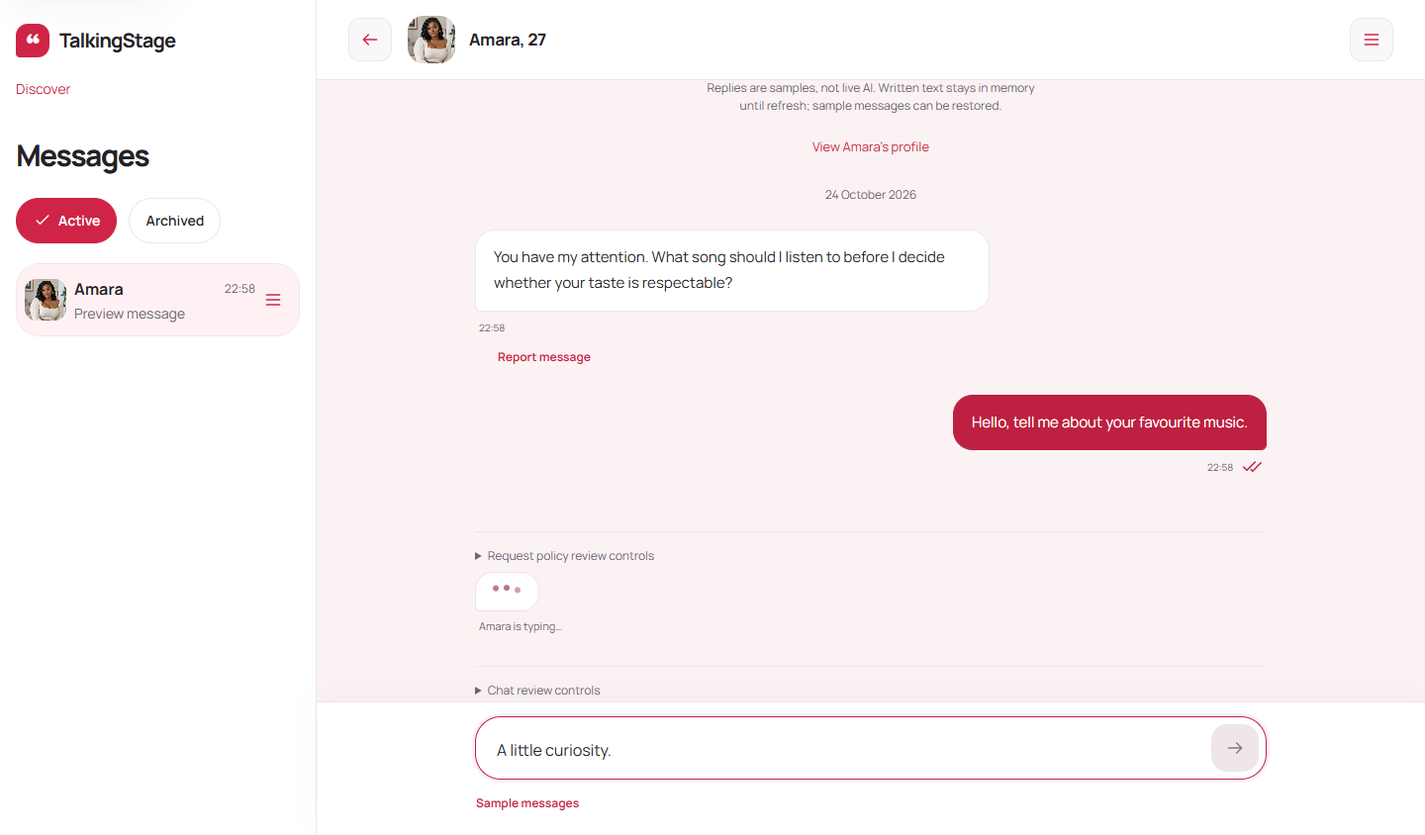
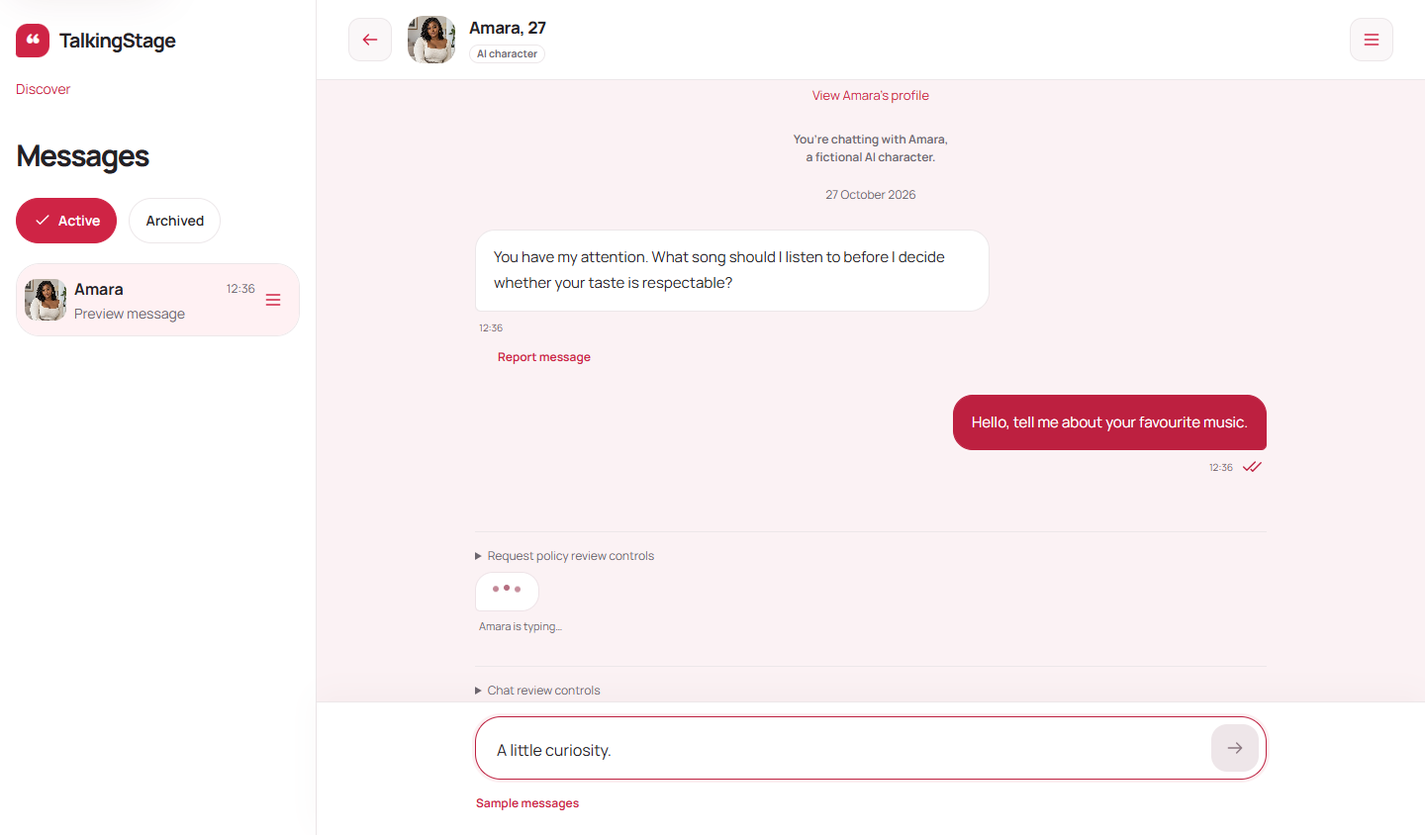
feat: implement AI disclosure features including session notices and character badges
- Added AI character badge under the name in chat and profile viewers.
- Introduced session start notice and reminder for AI character interactions.
- Updated CSS for AI disclosure elements.
- Created new component for AI session notice with visibility tracking.
- Enhanced tests for AI disclosure features, ensuring proper visibility and accessibility.
- Updated documentation to reflect changes in AI disclosure design and functionality.

Changed region(s): [[0.5, 0.0924, 0.7188, 0.2464], [0.3125, 0.0308, 0.4062, 0.0924], [0.1562, 0.3389, 0.1875, 0.3697]]

diff --git a/components/chat.tsx b/components/chat.tsx
@@ -20,6 +20,7 @@ import { ConversationLifecycle } from './conversation-lifecycle';
 import { ReportDialog, type ReportContext } from './reporting';
 import { useOperatorPreview } from './operator-preview';
 import { Overlay } from './ui/overlay';
+import { AiSessionNotice } from './ai-session-notice';
 import { Icon } from './ui/icon';
 
 function dateLabel(date: string) { return new Intl.DateTimeFormat('en-NG', { day: 'numeric', month: 'long', year: 'numeric', timeZone: 'Africa/Lagos' }).format(new Date(date)); }
@@ -70,9 +71,9 @@ function ChatContent({ id }: { id: string }) {
   const blockedCopy = archived ? 'This conversation is archived. Restore it to continue.' : (scenario === 'chat_paused' || !operator.chat) ? 'Conversation is paused. You can still read your history.' : (scenario === 'photos_paused' || !operator.photos) ? 'Character photos are paused. Text conversation is still available.' : null;
   const back = <Link onClick={() => { reading.current = false; }} href={character ? `/characters/${character.id}` : '/discover'} className="button button--quiet button--icon" aria-label={character ? `Back to ${character.name}’s profile` : 'Back to discovery'}><Icon name="back" /></Link>;
   if (loaded && (!conversation || !character || loadError)) return <main id="main-content" className="container shell__main"><EmptyState title="Conversation not found" action={<Link href="/discover" className="button button--primary">Explore characters</Link>}>{loadError || 'Start a conversation from a character’s profile.'}</EmptyState>{conversation && <Button onClick={() => { setLoaded(false); setLoadAttempt(v => v + 1); }}>Try again</Button>}</main>;
-  return <div className="chat-workspace"><aside className="chat-sidebar"><div className="chat-sidebar__brand"><Brand /><Link href="/discover">Discover</Link></div><MessageList compact selected={id} /></aside><ChatShell onMessagesScroll={event => { const main = event.currentTarget; nearBottom.current = main.scrollHeight - main.scrollTop - main.clientHeight < 100; }} back={back} identity={character ? <div className="chat-identity"><span className="chat-avatar"><CharacterPhoto character={character} retryable={false} /></span><div><h1 aria-label={`Your conversation with ${character.name}`}>{character.name}, {character.age}</h1></div></div> : <Skeleton width="60%" />} actions={<IconButton icon="menu" label="Conversation options" onClick={() => setMenu(true)} />} composer={loaded && thread ? <div className="chat-composer stack">{blockedCopy && <Notice title={archived ? 'Conversation archived' : (scenario === 'chat_paused' || !operator.chat) ? 'Conversation paused' : 'Photos paused'}>{blockedCopy}{archived && <Button variant="secondary" onClick={() => manage('archive')}>Restore conversation</Button>}</Notice>}{error && <p className="field__error" role="alert">{error}</p>}<form onSubmit={e => { e.preventDefault(); void send(); }}><div className="composer-field"><label htmlFor="chat-message" className="sr-only">Message {character?.name}</label><textarea ref={composer} id="chat-message" value={draft} disabled={chatDisabled} maxLength={2000} rows={1} placeholder={`Say something to ${character?.name ?? 'your character'}…`} onChange={e => setDraft(e.target.value)} onKeyDown={e => { if (e.key === 'Enter' && !e.shiftKey && !e.nativeEvent.isComposing && e.nativeEvent.keyCode !== 229) { e.preventDefault(); if (!e.repeat) void send(); } }} /></div><Button type="submit" className="composer-send" loading={busy} disabled={!draft.trim() || chatDisabled || pending} aria-label="Send message"><Icon name="arrow" /></Button></form><div className="composer-help"><Button variant="quiet" onClick={() => setShowSamples(v => !v)}>Sample messages</Button></div>{showSamples && <div className="sample-message-list">{sampleMessages.map(text => <button type="button" key={text} onClick={() => { setDraft(text); composer.current?.focus(); }}>{text}</button>)}</div>}</div> : <Skeleton height={48} />}>
+  return <div className="chat-workspace"><aside className="chat-sidebar"><div className="chat-sidebar__brand"><Brand /><Link href="/discover">Discover</Link></div><MessageList compact selected={id} /></aside><ChatShell onMessagesScroll={event => { const main = event.currentTarget; nearBottom.current = main.scrollHeight - main.scrollTop - main.clientHeight < 100; }} back={back} identity={character ? <div className="chat-identity"><span className="chat-avatar"><CharacterPhoto character={character} retryable={false} /></span><div><h1 aria-label={`Your conversation with ${character.name}`}>{character.name}, {character.age}</h1><Badge tone="neutral">AI character</Badge></div></div> : <Skeleton width="60%" />} actions={<IconButton icon="menu" label="Conversation options" onClick={() => setMenu(true)} />} composer={loaded && thread ? <div className="chat-composer stack">{blockedCopy && <Notice title={archived ? 'Conversation archived' : (scenario === 'chat_paused' || !operator.chat) ? 'Conversation paused' : 'Photos paused'}>{blockedCopy}{archived && <Button variant="secondary" onClick={() => manage('archive')}>Restore conversation</Button>}</Notice>}{error && <p className="field__error" role="alert">{error}</p>}<form onSubmit={e => { e.preventDefault(); void send(); }}><div className="composer-field"><label htmlFor="chat-message" className="sr-only">Message {character?.name}</label><textarea ref={composer} id="chat-message" value={draft} disabled={chatDisabled} maxLength={2000} rows={1} placeholder={`Say something to ${character?.name ?? 'your character'}…`} onChange={e => setDraft(e.target.value)} onKeyDown={e => { if (e.key === 'Enter' && !e.shiftKey && !e.nativeEvent.isComposing && e.nativeEvent.keyCode !== 229) { e.preventDefault(); if (!e.repeat) void send(); } }} /></div><Button type="submit" className="composer-send" loading={busy} disabled={!draft.trim() || chatDisabled || pending} aria-label="Send message"><Icon name="arrow" /></Button></form><div className="composer-help"><Button variant="quiet" onClick={() => setShowSamples(v => !v)}>Sample messages</Button></div>{showSamples && <div className="sample-message-list">{sampleMessages.map(text => <button type="button" key={text} onClick={() => { setDraft(text); composer.current?.focus(); }}>{text}</button>)}</div>}</div> : <Skeleton height={48} />}>
     {!loaded || !thread ? <div role="status" aria-label="Loading conversation" className="stack"><Skeleton width="70%" height={100} /><Skeleton width="55%" height={60} /></div> : <div className="chat-thread"><div className="chat-disclosure"><Badge>Scripted conversation preview</Badge><p>Replies are samples, not live AI. Written text stays in memory until refresh; sample messages can be restored.</p></div>{character && <div className="chat-profile-link"><Link href={`/characters/${character.id}`}>View {character.name}’s profile</Link></div>}
-      <div className="chat-log" role="log" aria-live="polite" aria-relevant="additions" aria-label="Conversation messages">{thread.messages.map((m, index) => { const day = dateLabel(m.createdAt); const previous = thread.messages[index - 1]; const job = thread.jobs.find(j => j.userMessageId === m.id); return <Fragment key={m.id}>{(!previous || dateLabel(previous.createdAt) !== day) && <p className="chat-date">{day}</p>}<article className={`message-turn message-turn--${m.role}`} data-message-id={m.id} aria-label={`${m.role === 'user' ? 'You' : character?.name}, ${formatTime(m.createdAt)}`}><span className="sr-only">{m.role === 'user' ? 'You' : character?.name}: </span>{m.kind === 'photo' ? <ChatPhoto message={m} conversationId={id} onView={setViewer} broken={brokenPhoto} /> : <p className="message-bubble">{m.text}</p>}<div className="message-meta caption muted"><time dateTime={m.createdAt}>{formatTime(m.createdAt)}</time>{m.role === 'user' && <><MessageDelivery state={m.deliveryState === 'sending' ? 'sending' : m.deliveryState === 'failed' ? 'failed' : job && ['waiting', 'generating', 'completed', 'failed', 'interrupted'].includes(job.state) ? 'seen' : 'saved'}/><span className="sr-only">{m.deliveryState === 'saved' ? 'Saved in preview' : ''}</span></>}</div>{m.role === 'character' && <Button variant="quiet" className="message-report" onClick={() => setReport({ target: m.kind === 'photo' ? { kind: 'photo', id: m.assetId! } : { kind: 'message', id: m.id }, label: m.kind === 'photo' ? 'character photo' : 'message', preview: m.text ?? 'AI-generated character photo' })}>Report {m.kind === 'photo' ? 'photo' : 'message'}</Button>}{m.deliveryState === 'failed' && <Button variant="secondary" disabled={busy} onClick={() => retryDelivery(m)}>Retry delivery</Button>}{job && (job.state === 'failed' || job.state === 'interrupted') && <div className="reply-failure"><p className="supporting">{job.state === 'interrupted' ? 'Reply interrupted.' : 'Reply couldn’t be prepared.'} Your message is saved.</p><Button variant="secondary" disabled={busy} onClick={() => retryReply(m.id)}>Retry reply</Button></div>}</article></Fragment>; })}</div>
+      {character && <AiSessionNotice conversationId={id} name={character.name} placement="start"/>}<div className="chat-log" role="log" aria-live="polite" aria-relevant="additions" aria-label="Conversation messages">{thread.messages.map((m, index) => { const day = dateLabel(m.createdAt); const previous = thread.messages[index - 1]; const job = thread.jobs.find(j => j.userMessageId === m.id); return <Fragment key={m.id}>{(!previous || dateLabel(previous.createdAt) !== day) && <p className="chat-date">{day}</p>}<article className={`message-turn message-turn--${m.role}`} data-message-id={m.id} aria-label={`${m.role === 'user' ? 'You' : character?.name}, ${formatTime(m.createdAt)}`}><span className="sr-only">{m.role === 'user' ? 'You' : character?.name}: </span>{m.kind === 'photo' ? <ChatPhoto message={m} conversationId={id} onView={setViewer} broken={brokenPhoto} /> : <p className="message-bubble">{m.text}</p>}<div className="message-meta caption muted"><time dateTime={m.createdAt}>{formatTime(m.createdAt)}</time>{m.role === 'user' && <><MessageDelivery state={m.deliveryState === 'sending' ? 'sending' : m.deliveryState === 'failed' ? 'failed' : job && ['waiting', 'generating', 'completed', 'failed', 'interrupted'].includes(job.state) ? 'seen' : 'saved'}/><span className="sr-only">{m.deliveryState === 'saved' ? 'Saved in preview' : ''}</span></>}</div>{m.role === 'character' && <Button variant="quiet" className="message-report" onClick={() => setReport({ target: m.kind === 'photo' ? { kind: 'photo', id: m.assetId! } : { kind: 'message', id: m.id }, label: m.kind === 'photo' ? 'character photo' : 'message', preview: m.text ?? 'AI-generated character photo' })}>Report {m.kind === 'photo' ? 'photo' : 'message'}</Button>}{m.deliveryState === 'failed' && <Button variant="secondary" disabled={busy} onClick={() => retryDelivery(m)}>Retry delivery</Button>}{job && (job.state === 'failed' || job.state === 'interrupted') && <div className="reply-failure"><p className="supporting">{job.state === 'interrupted' ? 'Reply interrupted.' : 'Reply couldn’t be prepared.'} Your message is saved.</p><Button variant="secondary" disabled={busy} onClick={() => retryReply(m.id)}>Retry reply</Button></div>}</article></Fragment>; })}</div>{character && <AiSessionNotice conversationId={id} name={character.name} placement="reminder"/>}
       <ChatPersonalSpace conversationId={id} />{!operator.payments && <Notice title="Payments paused">Giving is temporarily unavailable. You can still read payment history and continue any available conversation.</Notice>}
       {pending && <TypingBubble name={character?.name ?? 'Your character'}/>}
       {process.env.NODE_ENV === 'development' && <details className="chat-review-controls"><summary>Chat review controls</summary><SelectField label="Chat scenario" value={scenario} onChange={e => { setScenario(e.target.value as ChatScenario); setError(''); }}>{['ready', 'offline', 'delivery_failed', 'reply_failed', 'interrupted', 'rate_limit', 'usage_limit', 'chat_paused', 'photos_paused'].map(s => <option key={s}>{s}</option>)}</SelectField><Button variant="quiet" onClick={() => setBrokenPhoto(v => !v)}>Toggle broken photo</Button></details>}<div ref={end} /></div>}
@@ -82,6 +83,6 @@ function ChatContent({ id }: { id: string }) {
   {reset && <ConversationLifecycle id={id} action="reset" onClose={() => setReset(false)} onComplete={() => { setReset(false); setDraft(''); setError(''); }} />}
   {gift && <GiftDialog conversationId={id} onClose={() => setGift(false)} />}
   {report && <ReportDialog context={report} onClose={() => setReport(null)} />}
-  <Overlay open={!!viewer} onClose={() => setViewer(null)} title={viewer ? `${viewer.name}’s character photo` : 'Character photo'}>{viewer && <><CharacterPhoto character={viewer} kind="gallery" eager /><Button variant="quiet" onClick={() => { setViewer(null); setReport({ target: { kind: 'photo', id: `${viewer.id}-gallery` }, label: 'character photo', preview: `${viewer.name}’s AI-generated character photo` }); }}>Report this photo</Button></>}</Overlay>
+  <Overlay open={!!viewer} onClose={() => setViewer(null)} title={viewer ? `${viewer.name}’s character photo` : 'Character photo'} description="AI-generated photo of a fictional adult character.">{viewer && <><CharacterPhoto character={viewer} kind="gallery" eager /><Button variant="quiet" onClick={() => { setViewer(null); setReport({ target: { kind: 'photo', id: `${viewer.id}-gallery` }, label: 'character photo', preview: `${viewer.name}’s AI-generated character photo` }); }}>Report this photo</Button></>}</Overlay>
   </div>;
 }

diff --git a/components/connected-conversations.tsx b/components/connected-conversations.tsx
@@ -15,7 +15,7 @@ import { ConversationTools } from './conversation-tools';
 import Link from 'next/link';
 import {ReportControl} from './connected-reporting';
 import {currentAccount,renderAccount} from '@/lib/backend/server';
-import {EmptyState,Notice} from './ui/primitives';
+import {Badge,EmptyState,Notice} from './ui/primitives';
 import {Pagination} from './ui/pagination';
 import {ChatShell} from './chat-shell';
 import {ConversationControl,ReplyRetry} from './connected-conversation-forms';
@@ -28,6 +28,7 @@ import {ClearAllChats} from './clear-all-chats';
 import {GiftReceipt} from './connected-payments';
 import {bachsSettings} from '@/lib/payments/bachs.mjs';
 import {GiftProposalControl} from './connected-gift-form';
+import {AiSessionNotice} from './ai-session-notice';
 import type {GiftIntent} from '@/lib/backend/payment-service';
 type Conversation={id:string;character_id:string;name:string;status:string;version:number;generation:number;last_message_preview?:string;updated_at?:string};
 export async function ConnectedConversations({archived=false,page=1}:{archived?:boolean;page?:number}) {
@@ -73,10 +74,10 @@ export async function ConnectedThread({id,before,memorySaved=false}:{id:string;b
  const giftIntents=(giftRows.data??[]) as GiftIntent[];
  const tools=<ConversationTools><div className="connected-chat-shortcuts"><Link href={`/characters/${c.character_id}`}>View {c.name}’s profile</Link><Link href={`/settings/memories/${c.character_id}?conversation=${id}`}>Manage memories with {c.name}</Link></div> <div className="stack"><Link href={`/gifts/${id}`}>Send money</Link><Link href="/settings/requests">Manage monetary requests</Link><ConversationControl id={id} version={c.version} operation={c.status==='archived'?'restore':'archive'} label={c.status==='archived'?'Restore conversation':'Archive conversation'}/><ConversationControl id={id} version={c.version} operation="reset" label="Reset conversation"/><ConversationControl id={id} version={c.version} operation="delete" label="Delete conversation"/></div></ConversationTools>;
  const emptyConversation=<section className={`connected-chat-welcome connected-chat-welcome--minimal ${styles.introduction}`} aria-label={`Start your conversation with ${c.name}`}><h2>Start a conversation with <span>{c.name}</span></h2><p>Say hello and see where it goes.</p></section>;
- return <ConnectedChatDelivery key={`${id}:${c.generation}`} id={id} generation={c.generation} replies={available&&!blocked&&!before} savedIds={messages.map(m=>m.id)} savedClientIds={(delivery.data??[]).map(m=>m.client_message_id).filter(Boolean)} statuses={statuses??[]}><div className={`chat-workspace connected-chat ${styles.atmosphere}`}>{!before&&<CheckinSync conversation={id}/>} {!before&&<ConversationSync id={id} revision={conversationRevision({conversation:c,messages,capabilities,reactions},statuses??[])}/>}<ChatShell followMessages actions={tools} back={<Link href={`/characters/${c.character_id}`} className="button button--quiet" aria-label={`Back to ${c.name}’s profile`}>Back</Link>} identity={<div className="chat-identity"><Link href={`/characters/${c.character_id}`} aria-label={`View ${c.name}’s profile photo`}><ConnectedChatPortrait key={portrait.data?.id??'unavailable'} assetId={portrait.data?.id} name={c.name}/></Link><div><h1>{c.name}</h1></div></div>} composer={<div className="chat-composer stack">{memorySaved&&<MemorySavedConfirmation/>}{blocked&&<p className="supporting muted">{c.status==='archived'?'Restore this conversation to save new messages.':'Chat is paused. Saved history remains available.'}</p>}<LiveMessageComposer disabled={blocked||!!before} name={c.name}/></div>}>
+ return <ConnectedChatDelivery key={`${id}:${c.generation}`} id={id} generation={c.generation} replies={available&&!blocked&&!before} savedIds={messages.map(m=>m.id)} savedClientIds={(delivery.data??[]).map(m=>m.client_message_id).filter(Boolean)} statuses={statuses??[]}><div className={`chat-workspace connected-chat ${styles.atmosphere}`}>{!before&&<CheckinSync conversation={id}/>} {!before&&<ConversationSync id={id} revision={conversationRevision({conversation:c,messages,capabilities,reactions},statuses??[])}/>}<ChatShell followMessages actions={tools} back={<Link href={`/characters/${c.character_id}`} className="button button--quiet" aria-label={`Back to ${c.name}’s profile`}>Back</Link>} identity={<div className="chat-identity"><Link href={`/characters/${c.character_id}`} aria-label={`View ${c.name}’s profile photo`}><ConnectedChatPortrait key={portrait.data?.id??'unavailable'} assetId={portrait.data?.id} name={c.name}/></Link><div><h1>{c.name}</h1><Badge tone="neutral">AI character</Badge></div></div>} composer={<div className="chat-composer stack">{memorySaved&&<MemorySavedConfirmation/>}{blocked&&<p className="supporting muted">{c.status==='archived'?'Restore this conversation to save new messages.':'Chat is paused. Saved history remains available.'}</p>}<LiveMessageComposer disabled={blocked||!!before} name={c.name}/></div>}>
  <div className="chat-thread stack">{!available&&<Notice title="Replies are not available yet">Your messages are saved. No AI response is being generated.</Notice>}
 
  {older&&<Link href={`/messages/${id}?before=${older}`}>Older messages</Link>}{before&&<Link href={`/messages/${id}`}>Latest messages</Link>}
- <div className="chat-log" role="log" aria-label="Conversation messages" aria-relevant="additions" aria-atomic="false">{messages.length?messages.map((m,index)=>{const date=<MessageDate timestamp={m.created_at} previous={messages[index-1]?.created_at} now={dateNow}/>;const status=statuses?.find(s=>s.messageId===m.id);const proposal=proposalRows.data?.find(p=>p.message_id===m.id);const gift=giftIntents.find(g=>g.id===paymentMessages.data?.find(p=>p.id===m.id)?.payment_intent_id);if(m.kind==='payment')return <Fragment key={m.id}>{date}<article className="message-turn message-turn--system" aria-label="TalkingStage payment update"><p className="message-system-label caption">Payment update &middot; TalkingStage</p>{gift?<GiftReceipt intent={gift} name={c.name}/>:<Notice title="Payment details unavailable">Open <Link href="/settings/payments">payment history</Link> to check this payment.</Notice>}<div className="message-meta caption muted"><time dateTime={m.created_at}>{new Date(m.created_at).toLocaleTimeString('en-NG',{timeZone:'Africa/Lagos',hour:'2-digit',minute:'2-digit',hour12:true}).toUpperCase()}</time></div></article></Fragment>;return <Fragment key={m.id}>{date}<ReplyableMessage message={{...m,role:m.role==='user'?'user':'character'}} quote={m.replyTo} name={c.name} conversation={id} disabled={blocked} returnToLatest={!!before} content={m.kind==='photo'&&m.asset_id?<ConnectedChatPhoto assetId={m.asset_id} name={c.name} description={photoDescriptions.find(a=>a.id===m.asset_id)?.alt_text}/>:<ChatMessageContent text={m.text} giftHref={m.role==='character'&&giftsEnabled?`/gifts/${id}`:undefined}/>}><div className="message-meta caption muted"><time dateTime={m.created_at}>{new Date(m.created_at).toLocaleTimeString('en-NG',{timeZone:'Africa/Lagos',hour:'2-digit',minute:'2-digit',hour12:true}).toUpperCase()}</time>{m.role==='user'&&<ConnectedMessageDelivery messageId={m.id} status={status}/>}{m.role === 'character' && <ReportControl compact target={{kind:"message",id:m.id}} label={`${c.name} conversation message ${m.sequence}`} preview={m.kind==="photo"?`Photo shared in your conversation with ${c.name}`:m.text} />}</div>{['user','character'].includes(m.role)&&['text','photo'].includes(m.kind)&&<MessageReactions messageRole={m.role==='user'?'user':'character'} messageId={m.id} name={c.name} reactions={reactions.filter(r=>r.messageId===m.id)} disabled={blocked} action={setMessageReaction.bind(null,id)}/>}{proposal&&<GiftProposalControl id={proposal.id} conversation={id} amount={Number(proposal.amount_minor)} declined={proposal.state==='declined'}/>} {available&&!blocked&&status&&<ReplyRetry id={id} messageId={m.id} status={status}/>}</ReplyableMessage></Fragment>;}):<div className="chat-empty-introduction">{emptyConversation}</div>}<ChatOutbox name={c.name} previousTimestamp={messages.at(-1)?.created_at}/></div></div>
+ <AiSessionNotice conversationId={id} name={c.name} placement="start"/><div className="chat-log" role="log" aria-label="Conversation messages" aria-relevant="additions" aria-atomic="false">{messages.length?messages.map((m,index)=>{const date=<MessageDate timestamp={m.created_at} previous={messages[index-1]?.created_at} now={dateNow}/>;const status=statuses?.find(s=>s.messageId===m.id);const proposal=proposalRows.data?.find(p=>p.message_id===m.id);const gift=giftIntents.find(g=>g.id===paymentMessages.data?.find(p=>p.id===m.id)?.payment_intent_id);if(m.kind==='payment')return <Fragment key={m.id}>{date}<article className="message-turn message-turn--system" aria-label="TalkingStage payment update"><p className="message-system-label caption">Payment update &middot; TalkingStage</p>{gift?<GiftReceipt intent={gift} name={c.name}/>:<Notice title="Payment details unavailable">Open <Link href="/settings/payments">payment history</Link> to check this payment.</Notice>}<div className="message-meta caption muted"><time dateTime={m.created_at}>{new Date(m.created_at).toLocaleTimeString('en-NG',{timeZone:'Africa/Lagos',hour:'2-digit',minute:'2-digit',hour12:true}).toUpperCase()}</time></div></article></Fragment>;return <Fragment key={m.id}>{date}<ReplyableMessage message={{...m,role:m.role==='user'?'user':'character'}} quote={m.replyTo} name={c.name} conversation={id} disabled={blocked} returnToLatest={!!before} content={m.kind==='photo'&&m.asset_id?<ConnectedChatPhoto assetId={m.asset_id} name={c.name} description={photoDescriptions.find(a=>a.id===m.asset_id)?.alt_text}/>:<ChatMessageContent text={m.text} giftHref={m.role==='character'&&giftsEnabled?`/gifts/${id}`:undefined}/>}><div className="message-meta caption muted"><time dateTime={m.created_at}>{new Date(m.created_at).toLocaleTimeString('en-NG',{timeZone:'Africa/Lagos',hour:'2-digit',minute:'2-digit',hour12:true}).toUpperCase()}</time>{m.role==='user'&&<ConnectedMessageDelivery messageId={m.id} status={status}/>}{m.role === 'character' && <ReportControl compact target={{kind:"message",id:m.id}} label={`${c.name} conversation message ${m.sequence}`} preview={m.kind==="photo"?`Photo shared in your conversation with ${c.name}`:m.text} />}</div>{['user','character'].includes(m.role)&&['text','photo'].includes(m.kind)&&<MessageReactions messageRole={m.role==='user'?'user':'character'} messageId={m.id} name={c.name} reactions={reactions.filter(r=>r.messageId===m.id)} disabled={blocked} action={setMessageReaction.bind(null,id)}/>}{proposal&&<GiftProposalControl id={proposal.id} conversation={id} amount={Number(proposal.amount_minor)} declined={proposal.state==='declined'}/>} {available&&!blocked&&status&&<ReplyRetry id={id} messageId={m.id} status={status}/>}</ReplyableMessage></Fragment>;}):<div className="chat-empty-introduction">{emptyConversation}</div>}<ChatOutbox name={c.name} previousTimestamp={messages.at(-1)?.created_at}/></div><AiSessionNotice conversationId={id} name={c.name} placement="reminder"/></div>
  </ChatShell></div></ConnectedChatDelivery>;
 }

diff --git a/tests/ai-disclosure.spec.ts b/tests/ai-disclosure.spec.ts
@@ -1,0 +1,53 @@
+import { expect, test, type Page } from '@playwright/test';
+
+async function signIn(page: Page) {
+  await page.goto('/sign-in');
+  await page.getByLabel('Email address').fill('demo@talkingstage.example');
+  await page.getByLabel('Password', { exact: true }).fill('TalkingStage123!');
+  await page.getByRole('button', { name: 'Sign in to preview' }).click();
+  await expect(page).toHaveURL(/\/discover$/);
+}
+async function openChat(page: Page) {
+  await page.goto('/characters/char-amara');
+  await page.getByRole('button', { name: 'Shoot your shot' }).click();
+  await expect(page.getByRole('heading', { name: 'Your conversation with Amara' })).toBeVisible();
+}
+const start = 'You’re chatting with Amara, a fictional AI character.';
+
+for (const width of [320, 1440]) {
+  test(`AI character label, session notice and photo viewer disclosure at ${width}px`, async ({ page }) => {
+    await page.setViewportSize({ width, height: 844 });
+    await signIn(page); await openChat(page);
+    const label = page.locator('.chat-shell__header').getByText('AI character', { exact: true });
+    await expect(label).toBeVisible();
+    const notice = page.getByText(start, { exact: true });
+    await expect(notice).toBeVisible();
+    // Never announced as a new message.
+    await expect(page.getByRole('log').getByText(start)).toHaveCount(0);
+    expect(await page.evaluate(() => document.documentElement.scrollWidth <= window.innerWidth)).toBe(true);
+
+    await page.getByRole('textbox', { name: 'Message Amara' }).fill('Show me a character photo.');
+    await page.getByRole('button', { name: 'Send message' }).click();
+    await page.getByRole('button', { name: 'View Amara’s character photo' }).click();
+    const viewer = page.getByRole('dialog', { name: 'Amara’s character photo' });
+    await expect(viewer).toHaveAccessibleDescription('AI-generated photo of a fictional adult character.');
+    await expect(viewer.getByText('AI-generated photo of a fictional adult character.')).toBeVisible();
+    await page.keyboard.press('Escape');
+
+    // Once per browser session: a reload keeps the label but not the start notice.
+    await page.reload();
+    await expect(label).toBeVisible();
+    await expect(page.getByText(start, { exact: true })).toHaveCount(0);
+  });
+}
+
+test('AI reminder appears after three hours of visible use', async ({ page }) => {
+  await page.clock.install();
+  await signIn(page); await openChat(page);
+  const reminder = page.getByText('Reminder: you’re chatting with Amara, a fictional AI character.', { exact: true });
+  await page.clock.runFor('02:58:00');
+  await expect(reminder).toHaveCount(0);
+  await page.clock.runFor('00:03:00');
+  await expect(reminder).toBeVisible();
+  await expect(page.getByRole('log').getByText('Reminder:', { exact: false })).toHaveCount(0);
+});

diff --git a/components/ai-session-notice.tsx b/components/ai-session-notice.tsx
@@ -1,0 +1,40 @@
+'use client';
+import {useEffect, useState} from 'react';
+import styles from './ai-session-notice.module.css';
+
+// Companion-chat disclosure (fix.md F06): once per browser session per conversation,
+// and again after every three hours of visible use. Rendered outside role="log".
+export const AI_REMINDER_MS = 3 * 60 * 60 * 1000;
+const TICK_MS = 60 * 1000;
+
+function read(key: string) { try { return sessionStorage.getItem(key); } catch { return null; } }
+function write(key: string, value: string) { try { sessionStorage.setItem(key, value); } catch {} }
+
+export function AiSessionNotice({conversationId, name, placement}: {conversationId: string; name: string; placement: 'start' | 'reminder'}) {
+ const [shown, setShown] = useState(false);
+ useEffect(() => {
+  const key = `talkingstage:ai-notice:${placement}:${conversationId}`;
+  if (placement === 'start') {
+   if (read(key)) return;
+   // Mark as seen only once it renders, so an effect cancelled by a remount doesn't swallow it.
+   const timer = setTimeout(() => { write(key, '1'); setShown(true); });
+   return () => clearTimeout(timer);
+  }
+  // Visible time accumulates across reloads in this tab; hidden time never counts.
+  let visibleMs = Number(read(key)) || 0;
+  let last = Date.now();
+  const tick = () => {
+   const now = Date.now();
+   if (document.visibilityState === 'visible') visibleMs += now - last;
+   last = now;
+   if (visibleMs >= AI_REMINDER_MS) { visibleMs = 0; setShown(true); }
+   write(key, String(visibleMs));
+  };
+  const visibility = () => { if (document.visibilityState === 'visible') last = Date.now(); else tick(); };
+  const interval = setInterval(tick, TICK_MS);
+  document.addEventListener('visibilitychange', visibility);
+  return () => { clearInterval(interval); document.removeEventListener('visibilitychange', visibility); };
+ }, [conversationId, placement]);
+ if (!shown) return null;
+ return <p className={styles.notice} data-ai-notice={placement}>{placement === 'reminder' ? 'Reminder: you’re' : 'You’re'} chatting with {name}, a fictional AI character.</p>;
+}

diff --git a/components/connected-profile-photos.tsx b/components/connected-profile-photos.tsx
@@ -25,7 +25,7 @@ export function ConnectedProfilePhotos({ name, assets }: { name: string; assets:
   </div><div className="gallery-thumbnails" aria-label="Choose photo">{photos.map((asset, photoIndex) => <button type="button" key={asset.id} aria-label={`Show photo ${photoIndex + 1} of ${name}`} aria-pressed={index === photoIndex} onClick={() => setIndex(photoIndex)}>
     {/* eslint-disable-next-line @next/next/no-img-element */}
     <img src={'/api/cast-assets/' + asset.id + '?w=320'} alt={`${name}, ${asset.slot} preview`} loading="lazy" />
-  </button>)}</div><ReportControl target={{ kind: 'photo', id: selected.id }} label={name + '’s ' + selected.slot + ' photo'} buttonLabel="Report photo" preview={selected.alt_text} />{viewing && <Overlay open className="overlay--profile-photo" onClose={() => setViewing(false)} title={name + '’s photos'}>
+  </button>)}</div><ReportControl target={{ kind: 'photo', id: selected.id }} label={name + '’s ' + selected.slot + ' photo'} buttonLabel="Report photo" preview={selected.alt_text} />{viewing && <Overlay open className="overlay--profile-photo" onClose={() => setViewing(false)} title={name + '’s photos'} description="AI-generated photos of a fictional adult character.">
     <FullProfilePhoto key={selected.id} src={'/api/cast-assets/' + selected.id + '?w=1280'} alt={selected.alt_text} />
     <div className="gallery-viewer-controls"><Button variant="secondary" aria-label="Previous photo" disabled={photos.length < 2} onClick={() => navigate(-1)}>←</Button><span className="caption muted" role="status">Photo {index! + 1} of {photos.length}</span><Button variant="secondary" aria-label="Next photo" disabled={photos.length < 2} onClick={() => navigate(1)}>→</Button></div>
   </Overlay>}</>;

diff --git a/components/connected-chat-photo.tsx b/components/connected-chat-photo.tsx
@@ -9,7 +9,7 @@ export function ConnectedChatPhoto({assetId,name,description}:{assetId:string;na
  return <><figure className="chat-photo"><div className="chat-photo__image">{failed?<div className="photo-failure"><p>Photo is unavailable.</p><p className="caption muted">Photos may be paused or this photo may have been withdrawn.</p><Button variant="secondary" onClick={reload}>Reload photo</Button></div>:<button type="button" aria-label={`View ${name}’s character photo`} onClick={()=>setOpen(true)}>
  {/* eslint-disable-next-line @next/next/no-img-element */}
  <img key={attempt} ref={image=>{if(image?.complete&&image.naturalWidth===0){setFailed(true);setOpen(false);}}} src={`/api/cast-assets/${assetId}?w=640&attempt=${attempt}`} alt={alt} width={640} height={854} loading="lazy" onError={()=>{setFailed(true);setOpen(false);}}/></button>}</div></figure>
- <Overlay open={open} onClose={()=>setOpen(false)} title={`${name}’s character photo`}>
+ <Overlay open={open} onClose={()=>setOpen(false)} title={`${name}’s character photo`} description="AI-generated photo of a fictional adult character.">
  {/* eslint-disable-next-line @next/next/no-img-element */}
  {open&&<img className="connected-photo-viewer" src={`/api/cast-assets/${assetId}?w=1280&attempt=${attempt}`} alt={alt} onError={()=>{setFailed(true);setOpen(false);}}/>}</Overlay></>;
 }

diff --git a/app/chat-refresh.css b/app/chat-refresh.css
@@ -9,6 +9,8 @@
 .chat-identity h1 { font-size: 17px; font-weight: 750; letter-spacing: -.4px; }
 .chat-avatar, .connected-chat-avatar { width: 48px; height: 48px; border-radius: 16px; }
 .chat-identity .caption { font-size: 11px; }
+/* AI disclosure (F06): the neutral badge, scaled to sit quietly under the name. */
+.chat-identity .badge { margin-top: 2px; padding: 1px 7px; font-size: 10.5px; line-height: 15px; }
 .chat-shell__messages { padding: 28px 24px; overscroll-behavior: contain; }
 .chat-thread { max-width: 800px; }
 .chat-thread > .notice { padding: 14px 18px; border: 1px solid #f1dce2; background: #fff1f3; border-radius: 16px; }

diff --git a/components/ai-session-notice.module.css b/components/ai-session-notice.module.css
@@ -1,0 +1,11 @@
+/* Quieter than the date chip: same type, no box, so it reads as context, not structure. */
+.notice {
+  max-width: 34ch;
+  margin: 4px auto 16px;
+  color: var(--text-secondary);
+  font-size: 12px;
+  font-weight: 600;
+  line-height: 1.5;
+  text-align: center;
+  text-wrap: balance;
+}

diff --git a/docs/project-status.md b/docs/project-status.md
@@ -1,5 +1,7 @@
 # Current project status
 
+27 October F06 AI disclosure (A3): connected and preview chats show an `AI character` header badge; chat and profile photo viewers carry the AI-generated description; a per-conversation session-start line and a three-hourly visible-use reminder render outside the message log. Three new browser checks (`tests/ai-disclosure.spec.ts`) passed at 320px and 1440px, including a fake-clock reminder test; lint, TypeScript, all 46 core suites, build and `check:production` passed. The connected chat path is not browser-tested here because `test:auth` needs Docker. [Design entry](./design-system.md).
+
 26 October F02 security headers (H2): `next.config.ts` now sends CSP, HSTS (no preload), `nosniff`, `X-Frame-Options: DENY`, a strict referrer policy and a restrictive Permissions-Policy on every route, and drops `X-Powered-By`. The CSP is header-based with `'unsafe-inline'` scripts because nonces are incompatible with `cacheComponents` static shells; `connect-src` is `'self'` only because Supabase is called exclusively from the server; Turnstile is pre-allowed for F04 and `upgrade-insecure-requests` is sent only for an HTTPS site URL. It is report-only unless `TALKINGSTAGE_CSP_ENFORCE=1` is set **at build time** (Next bakes `headers()` into the routes manifest, so enforcing or rolling back needs a rebuild). With an enforced local production build, 15 public routes and a signed-in hosted-dev journey (sign-in, Discover, profile, messages, an open chat with polling, settings, payment history) produced zero CSP violations or page errors in Edge, with all images loading; no messages were sent. Lint, TypeScript, build, `check:production` and all 46 core suites passed. Still open: Safari check, the gift review → Bachs checkout redirect (payments disabled), a week of report-only staging traffic, then enforcement and securityheaders.com/Mozilla Observatory scans once a staging domain exists (F07).
 
 25 October F01 test credentials (H4): `lib/backend/local-test-account.json` is no longer tracked; a password-free `.example.json` template remains and the real file is git-ignored. `npm run backend:test-account` now generates a random local password on first run. The sign-in page reads the file server-side only behind the existing development + loopback + `TALKINGSTAGE_LOCAL_TEST_ACCOUNT=1` gate, and the two real-auth specs fail with a clear message if it is missing. Lint, TypeScript, all 46 offline core suites, `build` (without the file) and `check:production` passed. On 26 October a hosted `tester@talkingstage.example` account was found on the hosted development project (manually created, last sign-in 24 October); on the founder's instruction its password was rotated to a random value held only in the ignored local file, the new password was verified, and all its sessions were revoked with a global sign-out. The production client bundle contains neither the email nor a password. Still open: run `test:auth` against Docker (Docker was stopped and `.env.local` targets hosted), and repeat the audit on the production project once it exists (F07). The old password remains in git history; rotation, not history rewriting, is the remedy.

diff --git a/TASKS.md b/TASKS.md
@@ -16,9 +16,9 @@ Source: [fix.md](fix.md) (Phase 0 → Phase 1 → Phase 2). Ordered by priority;
 - [ ] **F04 · Email confirmation, CAPTCHA, safe password change (B2, B4)** - after F02 (CSP) and F03 (email)
   - Turnstile on register/sign-in/recover in `components/real-account-form.tsx`; enable in staging and production
 - [ ] **F08 · Error tracking and alerts (H3, H11)** - after F07; Sentry with `tunnelRoute` so F02 CSP needs no change
-- [ ] **F05 · Safety: crisis resources, model-based signals, durable age flag (A1, A2)** - crisis card blocked on verified resources (see Waiting On); signals/age flag can proceed
+- [ ] **F05 · Safety: crisis resources, model-based signals, durable age flag (A1, A2)** - crisis card blocked on verified resources (backlogged, see Someday); signals/age flag can proceed
   - Adds `checkins_paused_until`, used later by F12
-- [ ] **F06 · Persistent AI disclosure (A3)** - AI label and reminders; frontend-design skill + design system
+- [ ] **F06 · Persistent AI disclosure (A3)** - built on `fix/f06-ai-disclosure` (27 Oct); left: connected-chat check via `test:auth` (Docker), deploy
 
 ### Phase 1 — pilot-ready
 
@@ -38,13 +38,16 @@ Source: [fix.md](fix.md) (Phase 0 → Phase 1 → Phase 2). Ordered by priority;
 ## Waiting On
 
 - [x] ~~**Founder: choose host + production domain**~~ (2026-10-26) - Vercel, www.talkingstage.buzz
-- [ ] **Founder: verified Nigerian crisis services** (name, number, hours, languages, date checked) - blocks F05 crisis card - since 2026-10-24
 - [ ] **Founder: support process for deleting users with payment records** - blocks F18 step 4 - since 2026-10-24
 - [ ] **Accounts/keys** - Resend domain verification + SMTP key (F03), Cloudflare Turnstile (F04), GitHub Actions secrets + staging/prod Supabase (F07), Sentry EU (F08), VAPID keys (F11)
 
 ## Someday
 
 Phase 2 — track as issues once Phase 1 is done (see `fix.md` §Phase 2).
+
+- [ ] **Verify Nigerian crisis services by phone** - backlogged 2026-10-26; blocks only the F05 crisis card
+  - Call 112, Lagos 767, She Writes Woman 0800 800 2000, SURPIN 0800 078 7746, MANI 0809 111 6264 / 0811 168 0686
+  - Record name, number, hours, languages, date checked; re-check quarterly. Never use the untraceable blog numbers (fix.md F05)
 
 - [ ] **Payments: Bachs merchant setup, sandbox end-to-end acceptance (G1), legal review of money requests, A7 wording (Decision needed), G2 unit economics, G3 alerts** - request policy is local-only; hosted dev/prod stay disabled
 - [ ] **Adult text chat** - founder-requested scope; blocked on a compatible provider + explicit-mode controls (`docs/cast-50/adult-chat-scope.md`)

diff --git a/docs/design-system.md b/docs/design-system.md
@@ -1,5 +1,7 @@
 # TalkingStage design system
 
+AI disclosure · 27 October: reverses the 20 October character-identity decision for conversations and photo viewers (fix.md F06, review item A3). The chat header shows a small neutral `AI character` badge beneath the name, using the existing badge primitive and no new colours. Chat and profile photo viewers again describe "AI-generated photo(s) of a fictional adult character." beneath the title, exposed as the dialog description. Each conversation opens with one centered line, "You're chatting with [Name], a fictional AI character.", once per browser session; after every three hours of visible use a "Reminder:" line appears after the newest message. Both lines sit outside the `role="log"` region so they are never announced as messages, and they are quieter than the date chip (same 12px type, no box). Profiles and discovery cards still omit repeated AI badges.
+
 Incoming-message reactions · 20 October: users can react only to character messages. Outgoing user messages have no picker or add/change reaction controls and render no reaction row when empty. An actual character reaction on an outgoing message remains a non-interactive badge. The database independently rejects adding/changing self-reactions; legacy self-reactions can be removed but are hidden in the chat UI. This supersedes the earlier shared-count/self-reaction behavior below.
 
 Message emoji reactions · 20 October: saved conversational messages expose a small smile action with eight quick choices and a searchable More reactions panel. White rounded pills beneath the bubble combine matching reactions, show a count when both participants choose the same emoji and use the existing red/blush selection treatment. Controls retain 44px touch targets, keyboard focus/Escape, bounded mobile scrolling and optimistic rollback. User messages keep right alignment; character messages keep left alignment. System payment cards do not receive reactions. See [behavior and validation](./reviews/message-reactions.md).
